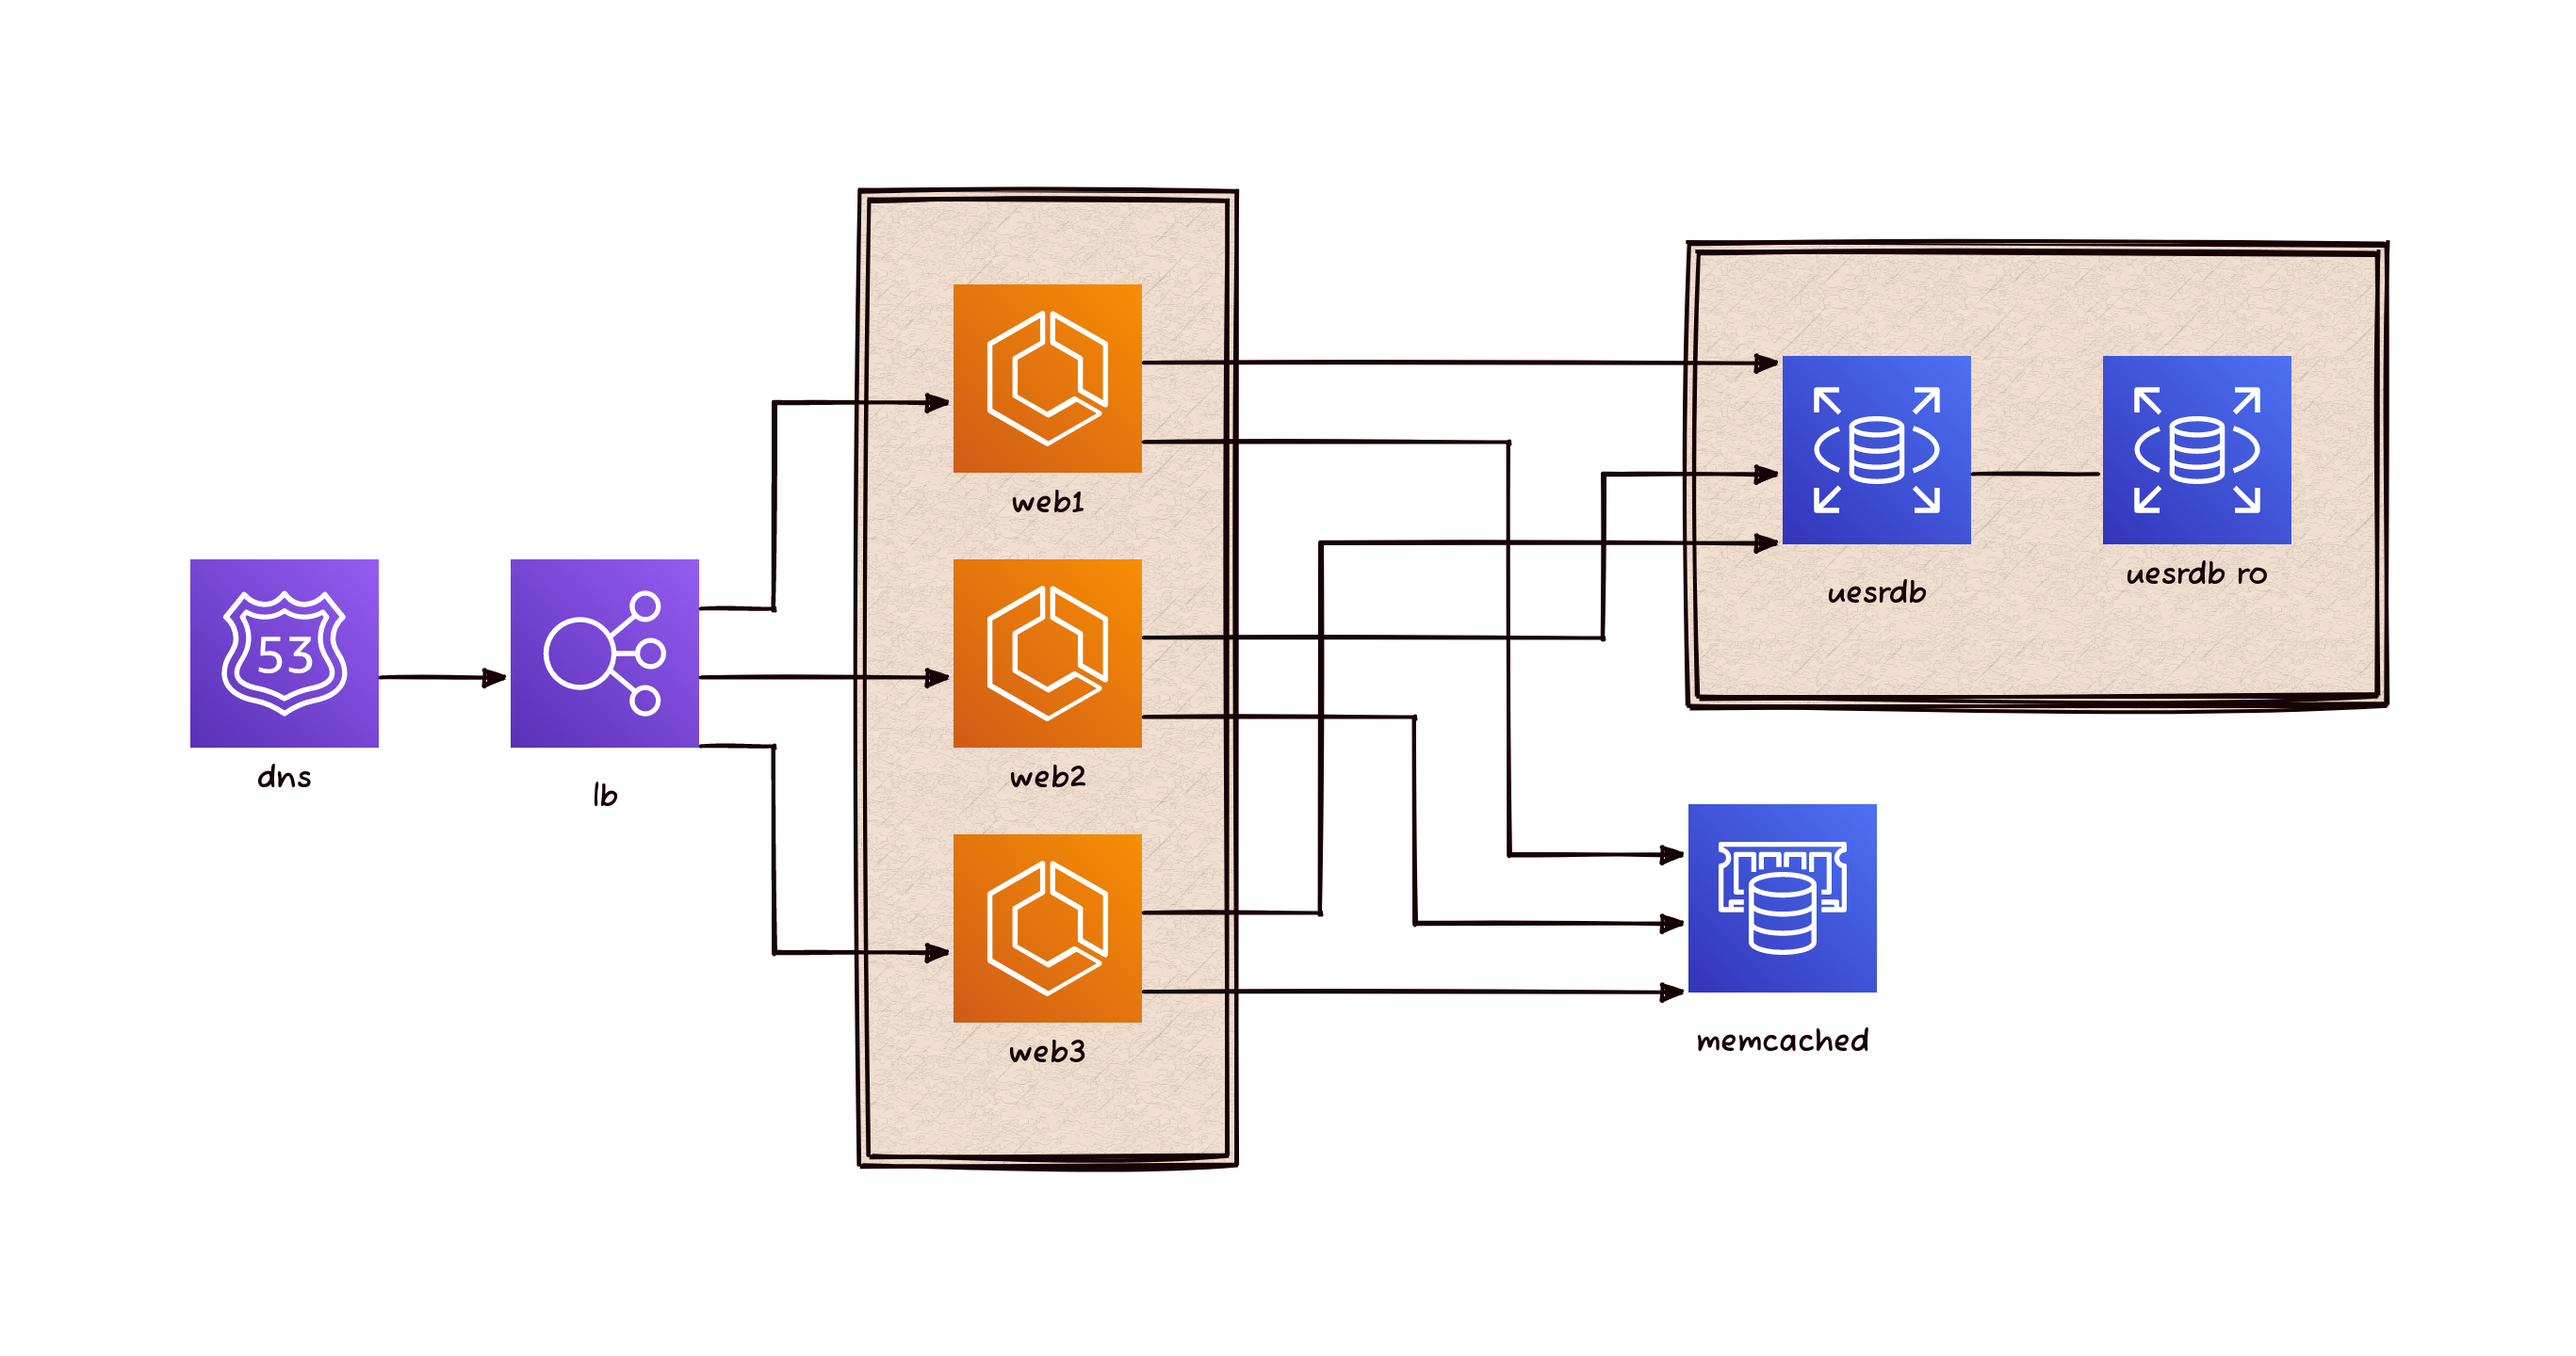
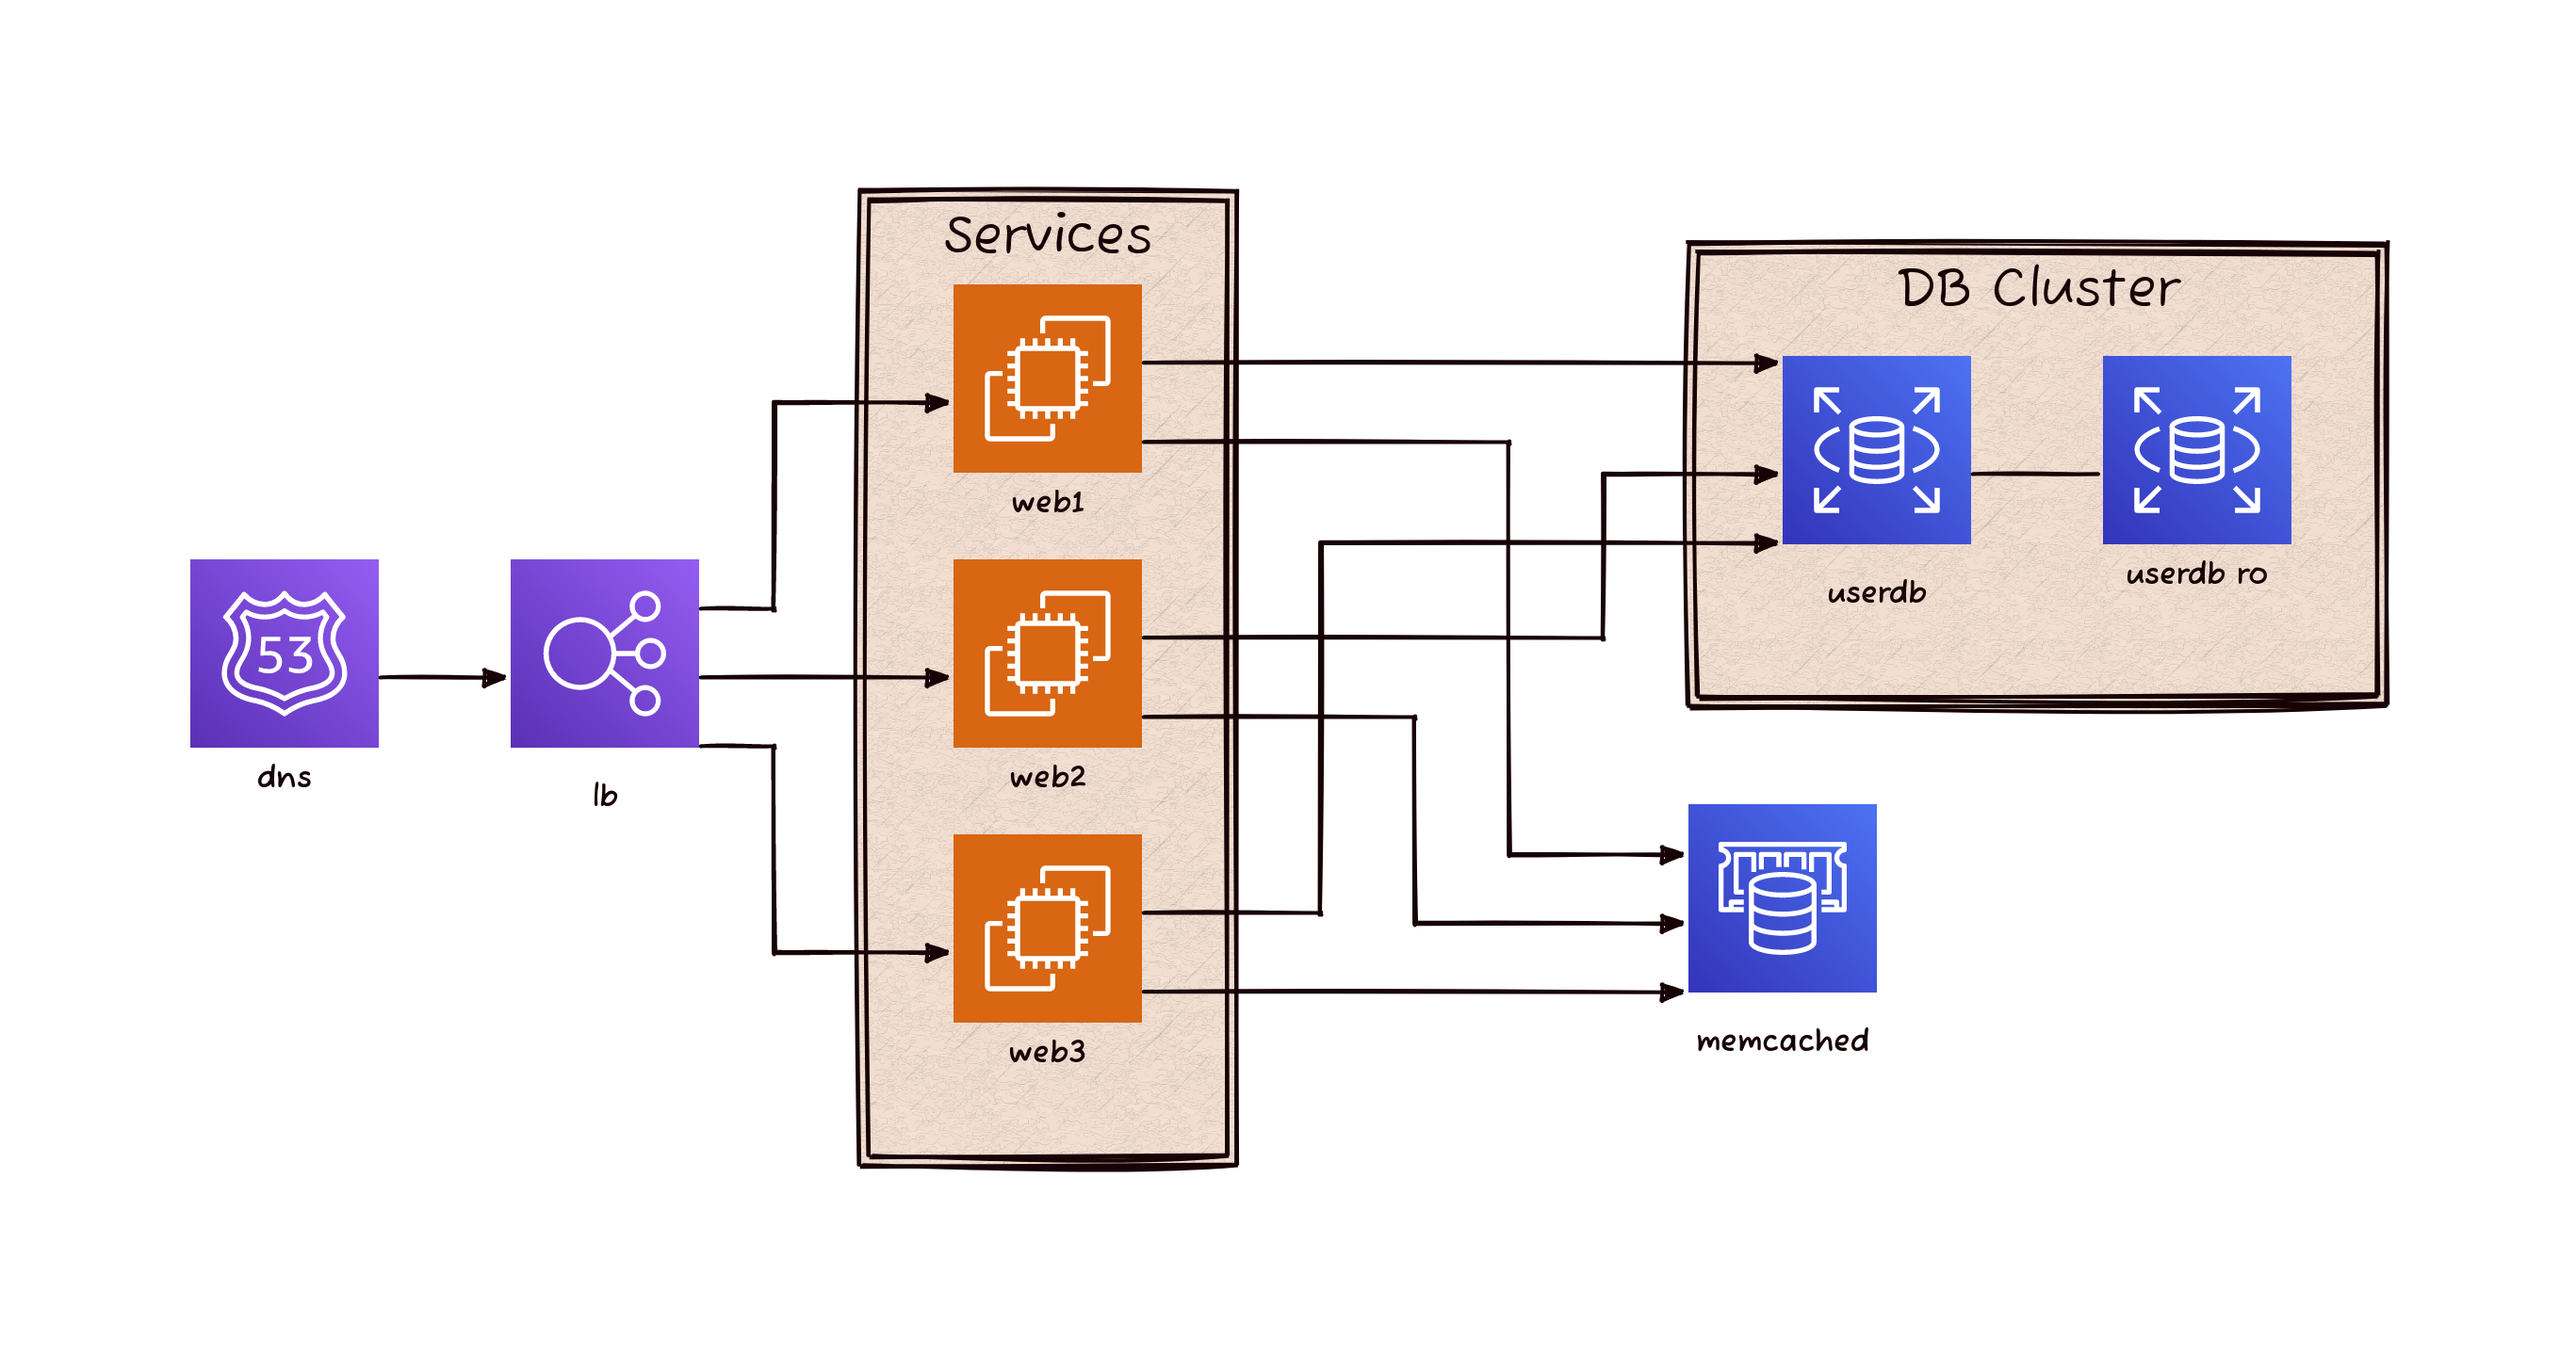
d2 update6

diff --git a/temp/d2/index.md b/temp/d2/index.md
@@ -203,36 +203,84 @@ d2 -s -t 302 -l darge example.d2 example2new_darge.png
 세 레이아웃 중 어떤 것이 가장 좋은가요? 이것은 개인의 호불호에 따라 달라질 것 같습니다. 객관적인 평가는 하지 않고 제 개인적으로는 무료로 사용 가능한 Elk방식이 나은듯 합니다.
 
 
-```python
-  direction: right
-  container1: "" {
-    web1
-    web2
-    web3
-  }
-  
-  container2: "" {
-    userdb
-    userdb ro
-  }
-  
-  dns -> lb
-  lb -> container1.web1
-  lb -> container1.web2
-  lb -> container1.web3
-  
-  container1.web1 -> container2.userdb
-  container1.web2 -> container2.userdb
-  container1.web3 -> container2.userdb
-  
-  container1.web1 -> memcached
-  container1.web2 -> memcached
-  container1.web3 -> memcached
-  
-  container2.userdb -- container2.userdb ro
+## 세번째 예제
+
+```
+direction: right
+
+...@models.d2
+
+dns.class: dns
+lb.class: lb
+container1.web1.class: ec2
+container1.web2.class: ec2
+container1.web3.class: ec2
+container2.userdb1.class: db
+container2.userdb1.label: userdb
+container2.userdb2.class: db
+container2.userdb2.label: userdb ro
+memcached.class: memcached
+
+container1: "Services" {
+  web1
+  web2
+  web3
+}
+
+container2: "DB Cluster" {
+  userdb1
+  userdb2
+}
+
+dns -> lb
+lb -> container1.web1
+lb -> container1.web2
+lb -> container1.web3
+
+container1.web1 -> container2.userdb1
+container1.web2 -> container2.userdb1
+container1.web3 -> container2.userdb1
+
+container1.web1 -> memcached
+container1.web2 -> memcached
+container1.web3 -> memcached
+
+container2.userdb1 -- container2.userdb2
 ```
 
 
-* 참고
- * D2 리포지토리: https://github.com/terrastruct/d2
- * Diagrams 리포지토리: https://github.com/mingrammer/diagrams
+```
+direction: right
+
+...@models.d2
+
+dns.class: dns
+lb.class: lb
+container1.web1.class: ec2
+container1.web2.class: ec2
+container1.web3.class: ec2
+container2.userdb1.class: db
+container2.userdb1.label: userdb
+container2.userdb2.class: db
+container2.userdb2.label: userdb ro
+memcached.class: memcached
+
+container1: "Services" {
+  web1
+  web2
+  web3
+}
+
+container2: "DB Cluster" {
+  userdb1
+  userdb2
+}
+
+dns -> lb
+lb -> container1
+container1 -> container2
+container1 -> memcached
+
+container2.userdb1 -- container2.userdb2
+```
+
